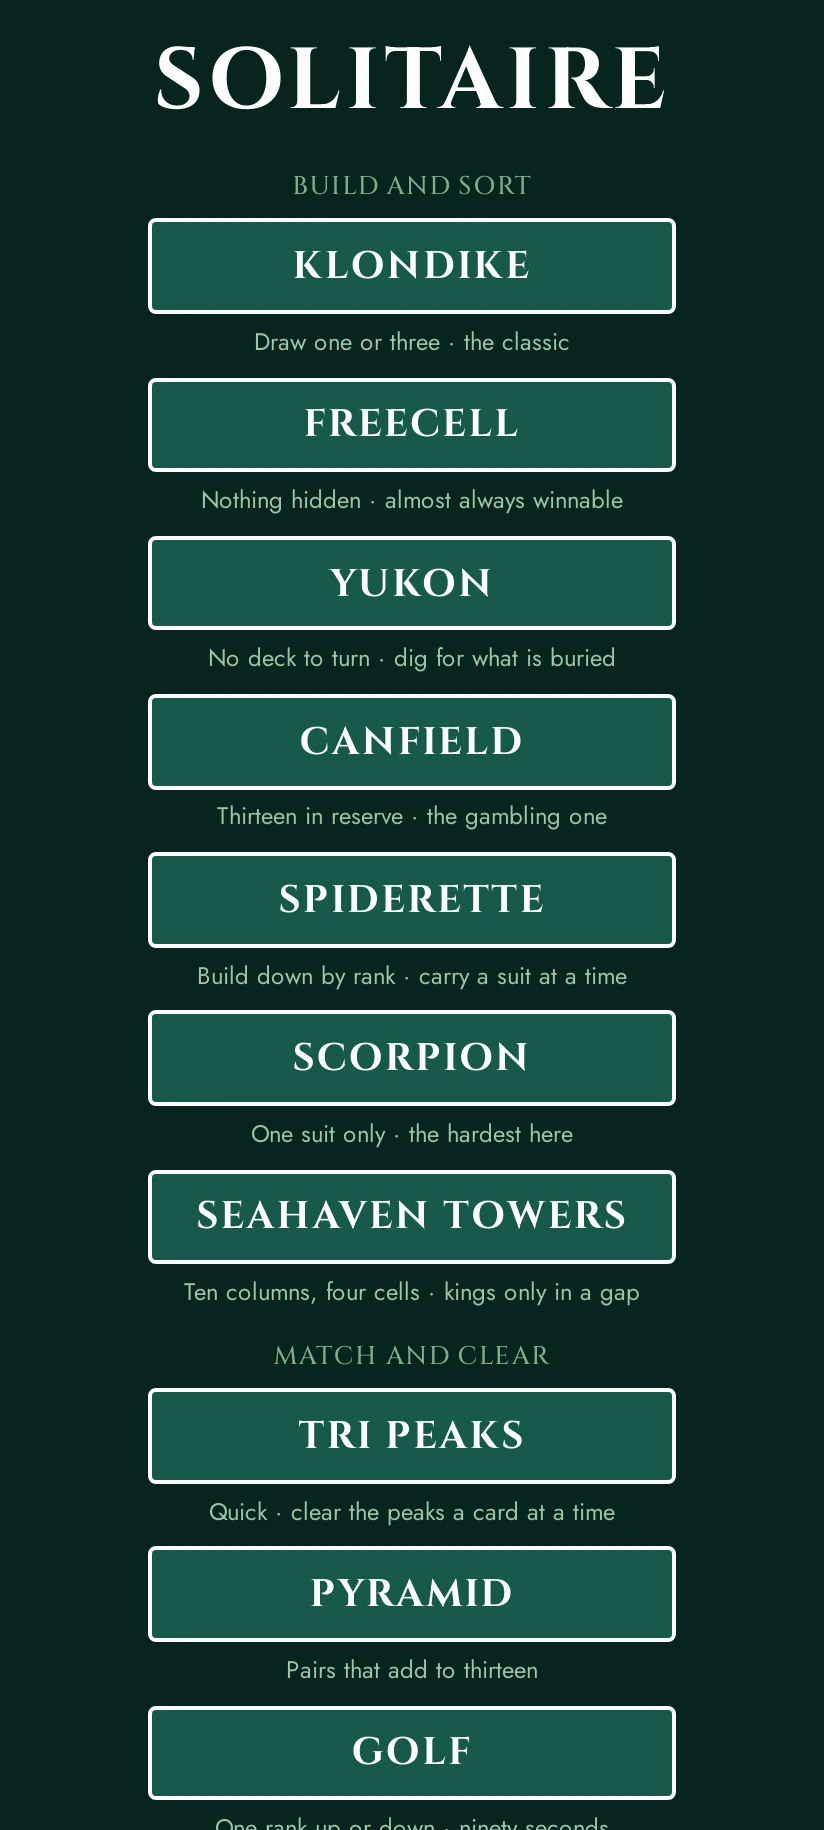
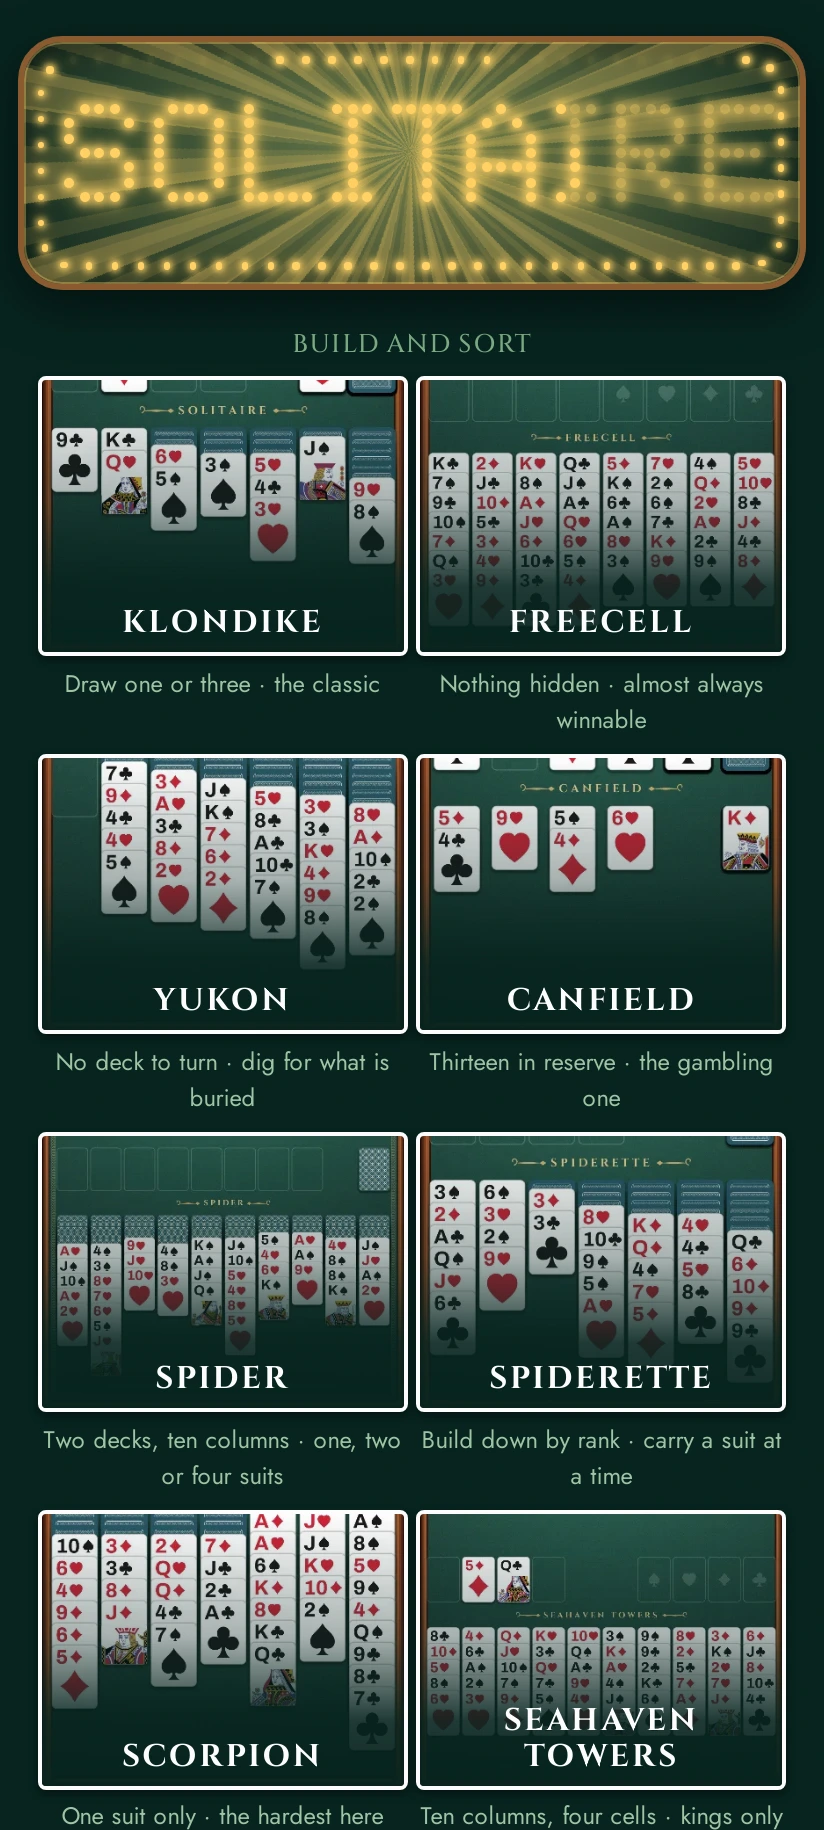
README: all eighteen games, and what changed around them
The intro, the scoring and record-book sections, how you play (cells,
buttons, the merci, the games with no undo), the building section, and
the Spiderette paragraph that still explained why there was no Spider.
And a fresh menu screenshot.

diff --git a/README.md b/README.md
@@ -1,8 +1,9 @@
 # web-solitaire
 
-Twelve solitaires, in a browser, for one person. No account, no server, no
-network — the game is a directory of static files, and everything it remembers
-about you is in your browser's own storage.
+Eighteen card games, in a browser, for one person — fifteen solitaires, two
+games of squares played for a score, and blackjack against the dealer. No
+account, no server, no network — the game is a directory of static files, and
+everything it remembers about you is in your browser's own storage.
 
 **Play it: [solitaire.exterkamp.codes](https://solitaire.exterkamp.codes)**
 
@@ -95,9 +96,8 @@ empty refills from it before you can use it.
 rank ignoring suit, but pick up only a run that is all one suit — so every
 convenient placement is a card buried on purpose. A suit leaves as a finished
 king-to-ace run, all thirteen at once, and the deck will not deal while any
-column stands empty. It is here rather than Spider because ten columns of a
-double deck come out at about thirty-six pixels a card on a phone, and the
-cards are the game.
+column stands empty. Seven columns at Klondike's card size, for anybody who
+wants the game without Spider's smaller cards.
 
 **Scorpion** is Yukon's grip with Spider's order. A face-up card comes away
 with everything piled on it, in whatever state those cards are in, and may
@@ -133,7 +133,7 @@ to the top.
 
 *And the quick ones, which build nothing and sort nothing:*
 
-**Tri Peaks** was the first of these and is the reason there are four. Three
+**Tri Peaks** was the first of these and is the reason the rest are here. Three
 peaks of cards, one card face up beside the deck, and any card you can see
 that is one rank either side of it can be taken — the ranks go round the
 corner, so an ace follows a king. The whole game is noticing, and it takes two
@@ -169,6 +169,8 @@ never be thrown away, which is where the name and the difficulty come from.
 The only decision in it is what to move into an empty column. You win about
 one hand in thirty-five.
 
+*And the ones played for a score, where every hand ends on a number:*
+
 **Poker Squares** turns the deck a card at a time into a five-by-five grid,
 anywhere there is room, and never lets a card move again. The five rows and
 five columns are ten poker hands, scored on the American table as they fill:
@@ -186,7 +188,10 @@ wins.
 common casino rules: the dealer stands on every seventeen, a blackjack pays
 three to two, double on any two cards, split a pair once, no insurance. A shoe
 is won by leaving it with more chips than you sat down with, and the chips
-come with you to the next one.
+come with you to the next one. The table is printed the way a casino's is,
+your chips sit in a pile behind your cards, and a bet is tossed off it into
+the betting circle — paid into the circle from the house when you win, swept
+away to it when you lose.
 
 </td>
 <td width="50%" valign="top">
@@ -212,9 +217,17 @@ come with you to the next one.
   a throw the foundations will not accept costs nothing — it lands as an
   ordinary drop would have. Games with no foundations have no such gesture,
   because there would be nothing for it to mean.
+* **Press an empty cell** in Poker Squares and Cribbage Squares to put the
+  turned card there — or drag it. In La Belle Lucie's last deal, a tap on a
+  buried card is the merci.
+* **Buttons** play Blackjack: bet 10, 20 or 50, then hit, stand, double or
+  split. A line under the table says what the cards add up to, and how the
+  last hand went.
 * **Undo** as far back as you like, including past a win. Undoing costs
   nothing: a score is a measure of the game you played, and an undone move is
-  a game that did not happen.
+  a game that did not happen. Except in the squares games and Blackjack, where
+  every move turns a card nobody has seen — an undo there would be a look at
+  the next one, so there is no Undo button at all.
 * **Finish** appears once every card is face up and the rest of the game is a
   formality, and plays it out. Only in the games that have such a position:
   in the Spider family a suit goes home the moment it is finished, so the
@@ -260,23 +273,36 @@ interruption rather than the play. The time bonus is the other half of that
 bargain — finishing quickly is still worth something, thinking slowly is not
 worth anything at all.
 
-That is Klondike's, and Klondike is the only game here with a score in that
-sense. Tri Peaks keeps its own: every card taken without turning the deck is
-worth more than the last, and clearing a peak is worth fifteen.
+That is Klondike's, and Klondike is the only solitaire here with a score in
+that sense. Tri Peaks keeps its own: every card taken without turning the deck
+is worth more than the last, and clearing a peak is worth fifteen.
 
-The other ten have never had a score, and none is invented for them. What
-the board shows instead is whichever number that game's players actually
-watch — free cells in FreeCell and Seahaven, cards still face down in Yukon
-and the Spider family, rows left in the deck in Spiderette, cards left in the
-reserve in Canfield, cards still standing in Pyramid, Golf and Aces Up. A score bolted onto a game that does not have one is a
-number that measures nothing.
+The games played for a score keep the one they are played for, and nothing
+else: the poker hands in Poker Squares (200 wins), the cribbage count in
+Cribbage Squares (61 wins), and your chips at Blackjack, shown as a stack on
+the felt whatever the score setting says. No time bonus in any of them — the
+points are the game, and playing quickly is not.
+
+The rest have never had a score, and none is invented for them. What the
+board shows instead is whichever number that game's players actually watch —
+free cells in FreeCell and Seahaven, cards still face down in Yukon and the
+Spider family, rows left in the deck in Spider and Spiderette, cards left in
+the reserve in Canfield, cards still to go up in Calculation, redeals and then
+the merci in La Belle Lucie, cards still standing in Pyramid, Golf and Aces
+Up. A score bolted onto a game that does not have one is a number that
+measures nothing.
 
 ## What is remembered
 
 Games played and won, win rate, best time, fewest moves, average length of a
-win, current streak and longest streak — kept separately for each game, in
-your browser's own storage. A game counts as played once you have made a move
-in it, so dealing a hand, looking at it and dealing another is free.
+win, current streak and longest streak — kept separately for each game, and
+for Klondike's draw and Spider's suits, in your browser's own storage. A game
+counts as played once you have made a move in it, so dealing a hand, looking
+at it and dealing another is free. In the games played for a score the best
+score is the best of every hand, won or not; Blackjack's is your biggest
+bankroll, and your chips are kept from one shoe to the next.
+
+A hand left mid-game is kept too, and offered back from that game's page.
 
 Clearing your browser's storage clears the record. That is a real limitation
 and a deliberate one: the alternative is an account, a password, and somewhere
@@ -302,10 +328,13 @@ in a waiting room.
 
 ## Building it
 
-Angular for the pages, [felt](https://github.com/exterkamp/felt) for the board, and a hard line between them. One
-board runs all twelve games; each game is a rules module of pure functions
-plus a description of where its piles are printed. Adding the twelfth touched
-two shared files and added three of its own.
+Angular for the pages, [felt](https://github.com/exterkamp/felt) for the
+board, and a hard line between them. One board runs every game; each game is
+a rules module of pure functions plus a description of where its piles are
+printed — and, for the games that need them, its own buttons, the printing on
+its cloth, or a seat at the table for its chips. felt does the drawing: the
+cards, the fans, the lettering bent round a blackjack table, and the chips
+tossed into the circle.
 
 ```bash
 npm install
